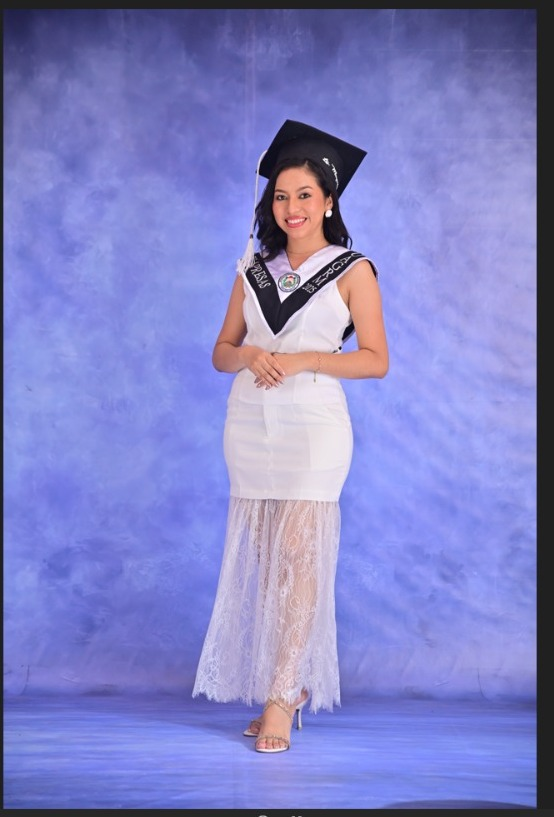
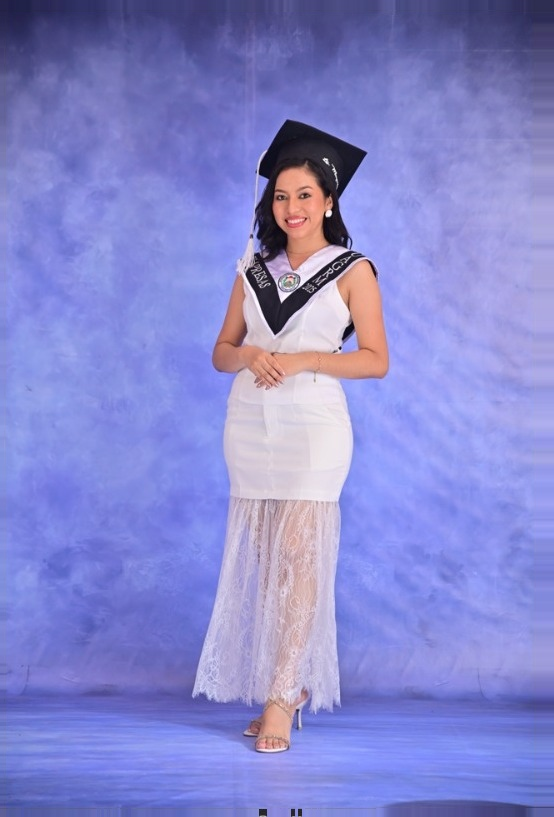
fix: eliminar borde negro lateral extendiendo fondo y reforzando marco

Changed region(s): [[0.0, 0.0, 1.0, 1.0]]

diff --git a/app/page.tsx b/app/page.tsx
@@ -948,7 +948,7 @@ function PolaroidGallery() {
                 />
 
                 {/* Borde protector que cubre los filos oscuros manteniendo la imagen completa */}
-                <div className="absolute inset-0 pointer-events-none z-10 border-[6px] sm:border-[8px] border-[#faf7f2] rounded-xs shadow-[inset_0_0_2px_rgba(0,0,0,0.12)]" />
+                <div className="absolute inset-0 pointer-events-none z-10 border-[8px] sm:border-[10px] border-[#faf7f2] rounded-xs shadow-[inset_0_0_2px_rgba(0,0,0,0.12)]" />
 
                 {/* Hover Zoom Badge */}
                 <div className="absolute top-3 right-3 rounded-full bg-[#0b3b2c]/80 backdrop-blur-xs p-1.5 text-white opacity-0 group-hover:opacity-100 transition-opacity shadow-sm z-20">
@@ -1041,7 +1041,7 @@ function PolaroidGallery() {
                 />
 
                 {/* Borde protector interior para tapar filos oscuros sin cortar la imagen */}
-                <div className="absolute inset-0 pointer-events-none z-10 border-[6px] sm:border-[8px] border-[#fdfbf7] rounded-xs shadow-[inset_0_0_2px_rgba(0,0,0,0.15)]" />
+                <div className="absolute inset-0 pointer-events-none z-10 border-[8px] sm:border-[10px] border-[#fdfbf7] rounded-xs shadow-[inset_0_0_2px_rgba(0,0,0,0.15)]" />
               </div>
 
               {/* Caption & Indicator */}
